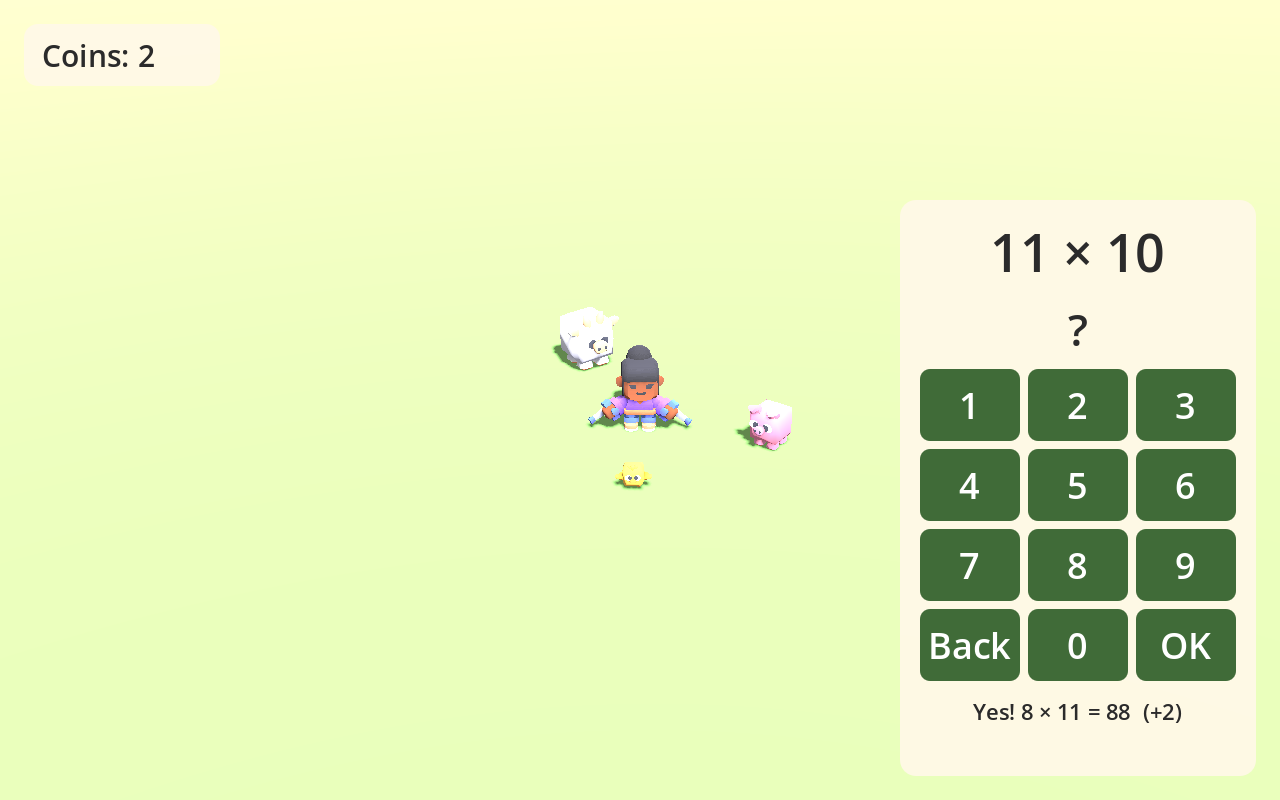
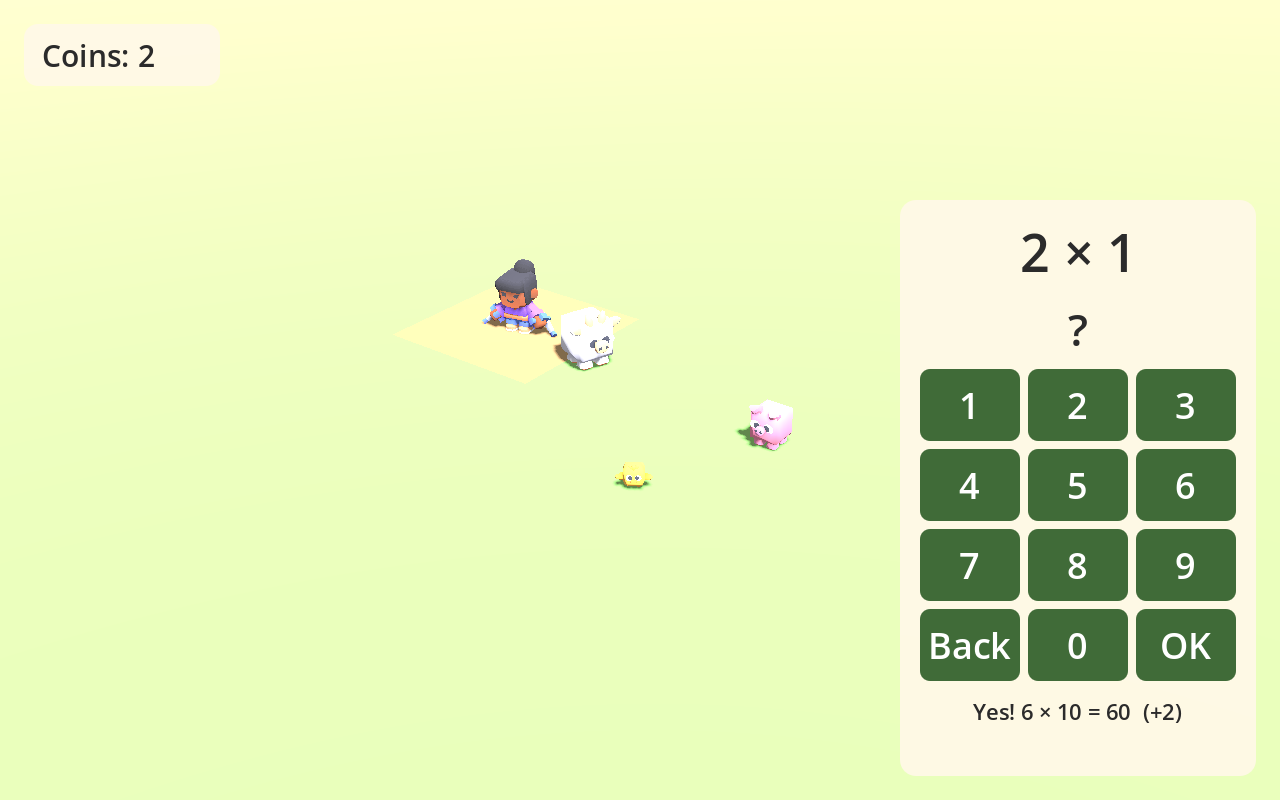
feat(SF-98): placeholder farm walks the keeper to the paddock
farm.tscn gains a baked NavigationRegion3D over the ground (with a collider
for taps), the keeper component and one HotspotArea for the paddock. farm.gd
no longer opens practice on load: the keeper stopping on the paddock does,
through HotspotArrivals, and setting off calls keeper_moved() so a stale
arrival opens nothing. The pad shows only while a round is open. The web
smoke taps the paddock (its screen spot is published as data-sf-hotspots),
waits for walking -> standing at the paddock and the pad, then answers.
README: how to drop the keeper and hotspots into a new scene.

Claude-Session: https://claude.ai/code/session_01XoFymmWrofKwSVoWC8EcRW

diff --git a/game/tests/web/farm-loop.spec.ts b/game/tests/web/farm-loop.spec.ts
@@ -1,10 +1,28 @@
-import { expect, test } from '@playwright/test'
+import { expect, test, type Page } from '@playwright/test'
 
-// The canvas has no DOM text, so the game mirrors the question and the coin
-// count onto <body data-sf-question / data-sf-coins> (adapters/web_page.gd).
-const SCREENSHOT = 'docs/img/godot-skeleton-1280x800.png'
+// The canvas has no DOM text, so the game mirrors its state onto <body data-*>
+// (adapters/web_page.gd): the question, the coins, the pad, where the keeper
+// stands and where each hotspot sits on screen. Every wait below polls those;
+// none waits on the clock.
+const SKELETON_SCREENSHOT = 'docs/img/godot-skeleton-1280x800.png'
+const KEEPER_SCREENSHOT = 'docs/img/godot-keeper-walk-1280x800.png'
 
-test('the Godot farm asks a question and a right answer earns coins', async ({ page }) => {
+const saveDocImage = async (page: Page, path: string) => {
+  if (process.env.UPDATE_DOC_IMAGES === '1') {
+    await page.screenshot({ path: new URL(`../../../${path}`, import.meta.url).pathname })
+  }
+}
+
+// Taps a hotspot where the game says it is on screen (fractions of the view).
+const tapHotspot = async (page: Page, id: string) => {
+  const hotspots = JSON.parse((await page.locator('body').getAttribute('data-sf-hotspots')) ?? '{}')
+  const [fx, fy] = hotspots[id] as [number, number]
+  const canvas = await page.locator('canvas').boundingBox()
+  if (!canvas) throw new Error('the game canvas has no box')
+  await page.mouse.click(canvas.x + fx * canvas.width, canvas.y + fy * canvas.height)
+}
+
+test('tapping the paddock walks the keeper there, the pad opens and a right answer earns coins', async ({ page }) => {
   const consoleErrors: string[] = []
   page.on('console', (message) => {
     if (message.type() === 'error') consoleErrors.push(message.text())
@@ -13,13 +31,22 @@ test('the Godot farm asks a question and a right answer earns coins', async ({ p
 
   const body = page.locator('body')
   await expect(page.locator('canvas')).toBeVisible()
-  await expect(body).toHaveAttribute('data-sf-question', /^\d+x\d+$/, { timeout: 90_000 })
+  await expect(body).toHaveAttribute('data-sf-coins', /^\d+$/, { timeout: 90_000 })
+  await expect(body).toHaveAttribute('data-sf-pad', 'closed')
+  await expect(body).toHaveAttribute('data-sf-keeper', 'standing')
+
+  await tapHotspot(page, 'paddock')
+  await expect(body).toHaveAttribute('data-sf-keeper', 'walking', { timeout: 10_000 })
+  await expect(body).toHaveAttribute('data-sf-keeper', 'standing', { timeout: 30_000 })
+  await expect(body).toHaveAttribute('data-sf-keeper-at', 'paddock')
+  await expect(body).toHaveAttribute('data-sf-pad', 'open', { timeout: 30_000 })
+  await expect(body).toHaveAttribute('data-sf-question', /^\d+x\d+$/)
+  await saveDocImage(page, KEEPER_SCREENSHOT)
+
   const coinsBefore = Number(await body.getAttribute('data-sf-coins'))
   const question = (await body.getAttribute('data-sf-question')) ?? ''
   const [a, b] = question.split('x').map(Number)
-
-  // Click the world, not the pad, so the canvas has keyboard focus.
-  await page.mouse.click(300, 400)
+  // The tap above gave the canvas keyboard focus.
   await page.keyboard.type(String(a * b))
   await page.keyboard.press('Enter')
 
@@ -28,8 +55,5 @@ test('the Godot farm asks a question and a right answer earns coins', async ({ p
   )
   await expect(body).not.toHaveAttribute('data-sf-question', question)
   expect(consoleErrors).toEqual([])
-
-  if (process.env.UPDATE_DOC_IMAGES === '1') {
-    await page.screenshot({ path: new URL(`../../../${SCREENSHOT}`, import.meta.url).pathname })
-  }
+  await saveDocImage(page, SKELETON_SCREENSHOT)
 })

diff --git a/game/README.md b/game/README.md
@@ -67,8 +67,64 @@ What this means in practice when you build a scene:
 
 Everything in `scenes/` is deliberately plain — SF-95 (#143) is the real farm.
 The rules are not: `domain/` and `app/` are the TypeScript rules, ported with
-their tests (SF-94, #142). Until a keeper walks, `scenes/farm/farm.gd` "arrives"
-at the paddock on load and again after each round.
+their tests (SF-94, #142). The placeholder farm has a walkable navmesh, the
+keeper and one hotspot, the paddock: tap the dirt patch, she walks there, and
+the pad opens on a question. When a round ends the pad closes; tap the paddock
+again to play another.
+
+## Dropping the keeper into your scene
+
+The keeper is a ready-made component (SF-98): `scenes/keeper/keeper.tscn`. She
+walks on a navmesh you bake, follows taps/clicks and WASD/arrow keys, blends
+idle ↔ walk by her own speed, turns to face where she goes, and turns a
+three-quarter view to the camera when she gets there. A `HotspotArea` marks a
+place she can stop at; stopping inside one is what opens its activity.
+
+Checklist for a new farm scene:
+
+1. **Root script.** Keep `scenes/farm/farm.gd` on the scene's root node, with
+   the `%NumberPad` and `%Hud` UI from the placeholder. It plugs the game in.
+2. **Ground collision.** Whatever she walks on needs a collider
+   (`StaticBody3D` + `CollisionShape3D`) on physics layer 1 — taps are cast
+   onto it. (Change `TapToWalk → Ground Layers` if you use another layer.)
+3. **Bake the navmesh.** Add a `NavigationRegion3D`, put the ground (and the
+   fences, barn and other things she must walk round) under it, give it a new
+   `NavigationMesh` with *Parsed Geometry Type* = Static Colliders,
+   *Agent Radius* 0.5, *Agent Height* 1.75, then **Bake NavigationMesh** in the
+   toolbar. Re-bake after moving anything under it.
+4. **Drop in the keeper.** Instance `scenes/keeper/keeper.tscn` (drag it into
+   the scene), name it `Keeper` and tick **Access as Unique Name**. Turn her to
+   face where she should start.
+5. **Place the hotspots.** For each place, add an `Area3D`, attach
+   `scenes/hotspot/hotspot_area.gd`, set **Hotspot Id** (`paddock`, `barn`,
+   `feed-shed`, `nest`, `training-ring`, `petting-zoo`, `farmhouse`), and give
+   it a `CollisionShape3D` with a **BoxShape3D** sized over the ground there.
+   Only the box's width and depth matter. Today only `paddock` opens
+   something; the others answer "coming soon".
+6. **Set the camera.** One `Camera3D` marked **Current**. Keys walk relative
+   to it, and she turns to face it when she arrives.
+
+What you can tune on the `Keeper` in the inspector:
+
+| Property | Default | What |
+| --- | --- | --- |
+| Walk Speed | 3.75 m/s | Art-direction §2: the 30 m farm crossed in 8 s |
+| Turn Rate | 10 rad/s | Turning toward where she walks |
+| Facing Turn Rate | 4 rad/s | The unhurried look round to the camera on arrival |
+| Arrival Radius | 0.25 m | How close to the tapped point counts as there |
+| Face Camera On Arrival | on | Off: she keeps facing the way she walked |
+| Reduced Motion | Follow Page | Follow Page uses the browser setting; Always / Never override it. Reduced motion = no walk bob (rest pose), instant turns |
+| Model Scene | Kenney `character-female-a` | Any model with an `AnimationPlayer` holding the two clips below |
+| Model Scale | 2.06 | Kenney's Mini Characters are ~0.78 m; she should be 1.6 m |
+| Idle Clip / Walk Clip | `idle` / `walk` | Clip names in the model's AnimationPlayer |
+| Crossfade Seconds | 0.25 | How long idle ↔ walk takes to blend |
+
+On her children: `TapToWalk → Reach Tolerance` (0.75 m — how far off the
+walkable ground a tap may land and still count), `TapCue → Fade Seconds` and
+`Ring Color` (the soft ring shown where she cannot go — no sound, never red),
+and `NavigationAgent3D → Path Height Offset` (0.3 m — a baked navmesh floats
+above the ground; if you change the navmesh's *Cell Height*, set this to the
+new gap so her feet stay on the ground).
 
 ## Calling the game from a scene
 
@@ -79,6 +135,10 @@ at the paddock on load and again after each round.
   `buy_feed`, `set_muted`, `when_saved`, `HotspotArrivals.arrive_at`. Always
   `await` them. They run one at a time, and the farm only moves once the save
   has landed.
+- **An arrival only counts while she is still there.** Call
+  `HotspotArrivals.keeper_moved()` whenever the keeper sets off (the farm root
+  does, from the keeper's `set_off` signal). An arrival still waiting for a save
+  then comes back `MOVED_ON` and opens nothing.
 - **Sounds are data.** `AnswerFeedback.sounds` names what to play (`fluent`,
   `correct`, `wrong`, `hatch`); the scene plays its sample files for them.
 

diff --git a/.claude/memory/godot-client.md b/.claude/memory/godot-client.md
@@ -63,3 +63,25 @@
   game/tools/oracles/vitest.config.ts` rewrites
   `game/tests/oracles/typescript_oracles.json`; rerun it whenever the
   TypeScript rules change, or the GDScript equivalence tests go red.
+
+## Keeper controller (SF-98)
+
+- **A baked navmesh floats above the ground** (≈ 2 cells: 0.3 m at the default
+  0.25 cell height). `keeper.tscn`'s `NavigationAgent3D.path_height_offset`
+  (0.3) takes it back off path points, and `KeeperController._on_navmesh`
+  subtracts the same for keyboard walking. Change both with the cell height.
+- **The navigation map takes the bake on a later physics frame**, and the first
+  one of a GUT run takes longer than a fixed 3 frames. Tests poll
+  `map_get_closest_point` frame by frame until it answers
+  (`test_keeper_navigation.gd::_navmesh_served`).
+- **Driving the keeper deterministically:** switch off her physics processing
+  and call `_physics_process(1.0 / 60.0)` yourself. She moves by
+  `global_position`, not `move_and_slide`, so the step is exactly the delta you
+  pass (move_and_slide would use the engine's delta).
+- **Arrival = she stopped inside a `HotspotArea` box**, worked out from the
+  box (`HotspotBounds`), not `body_entered` — overlap signals land a physics
+  frame late and fire when she merely passes through.
+- **Headless SceneTree scripts** (`-s script.gd`) must do their work in
+  `_initialize()`, not `_init()`, or nodes are not in the tree yet.
+- **`keeper_controller.gd` is `@tool`** so the chosen model shows in the editor;
+  everything else in it returns early under `Engine.is_editor_hint()`.
